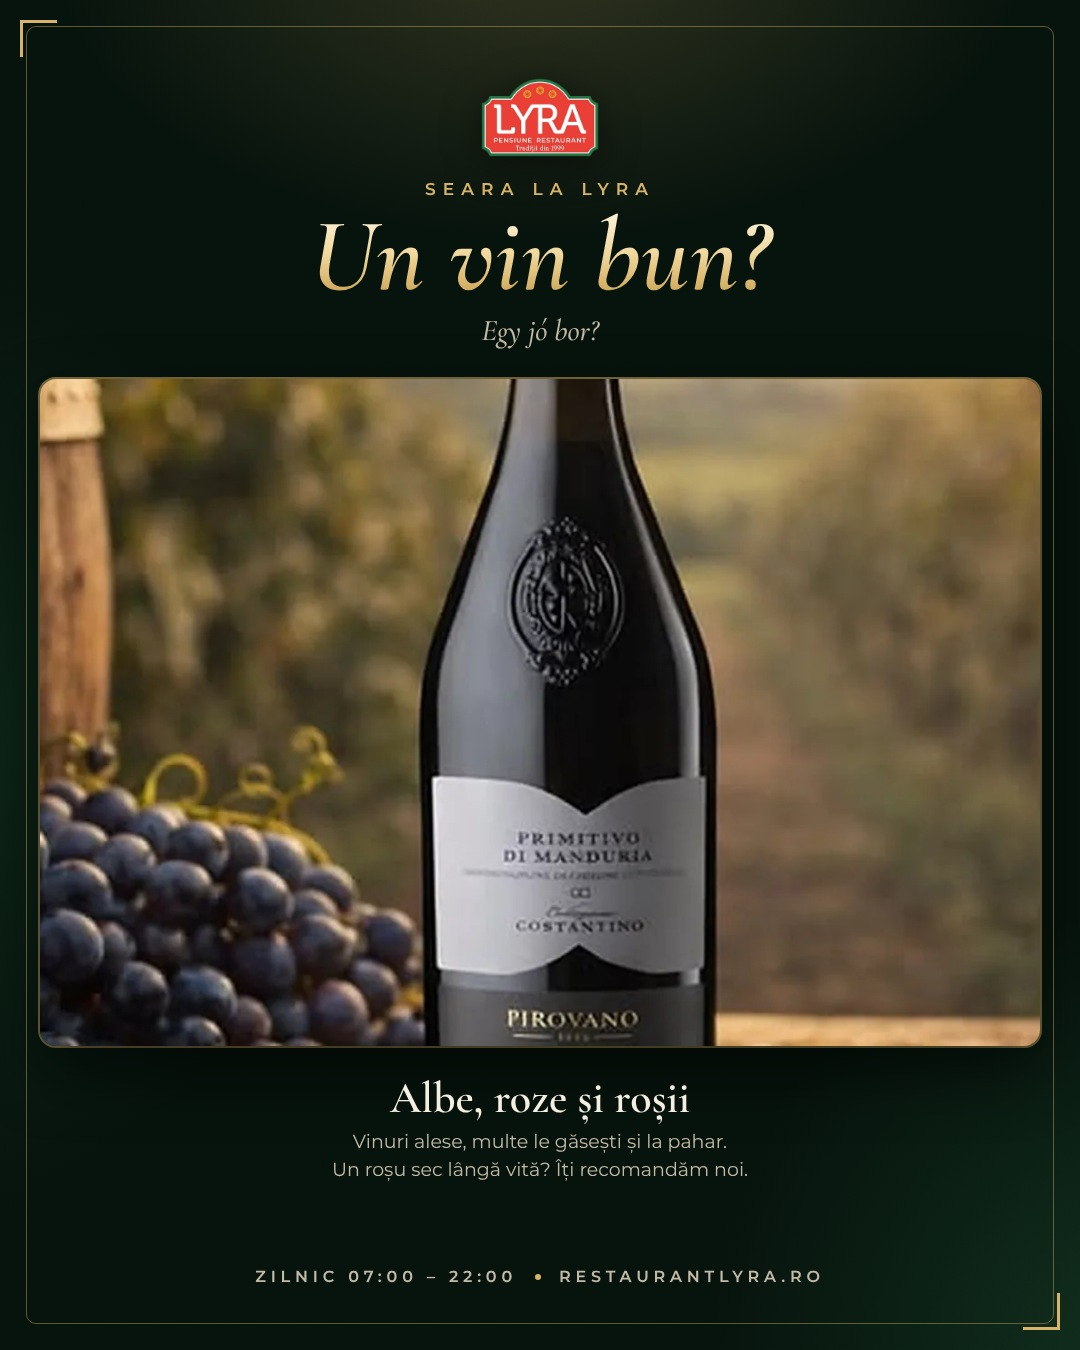
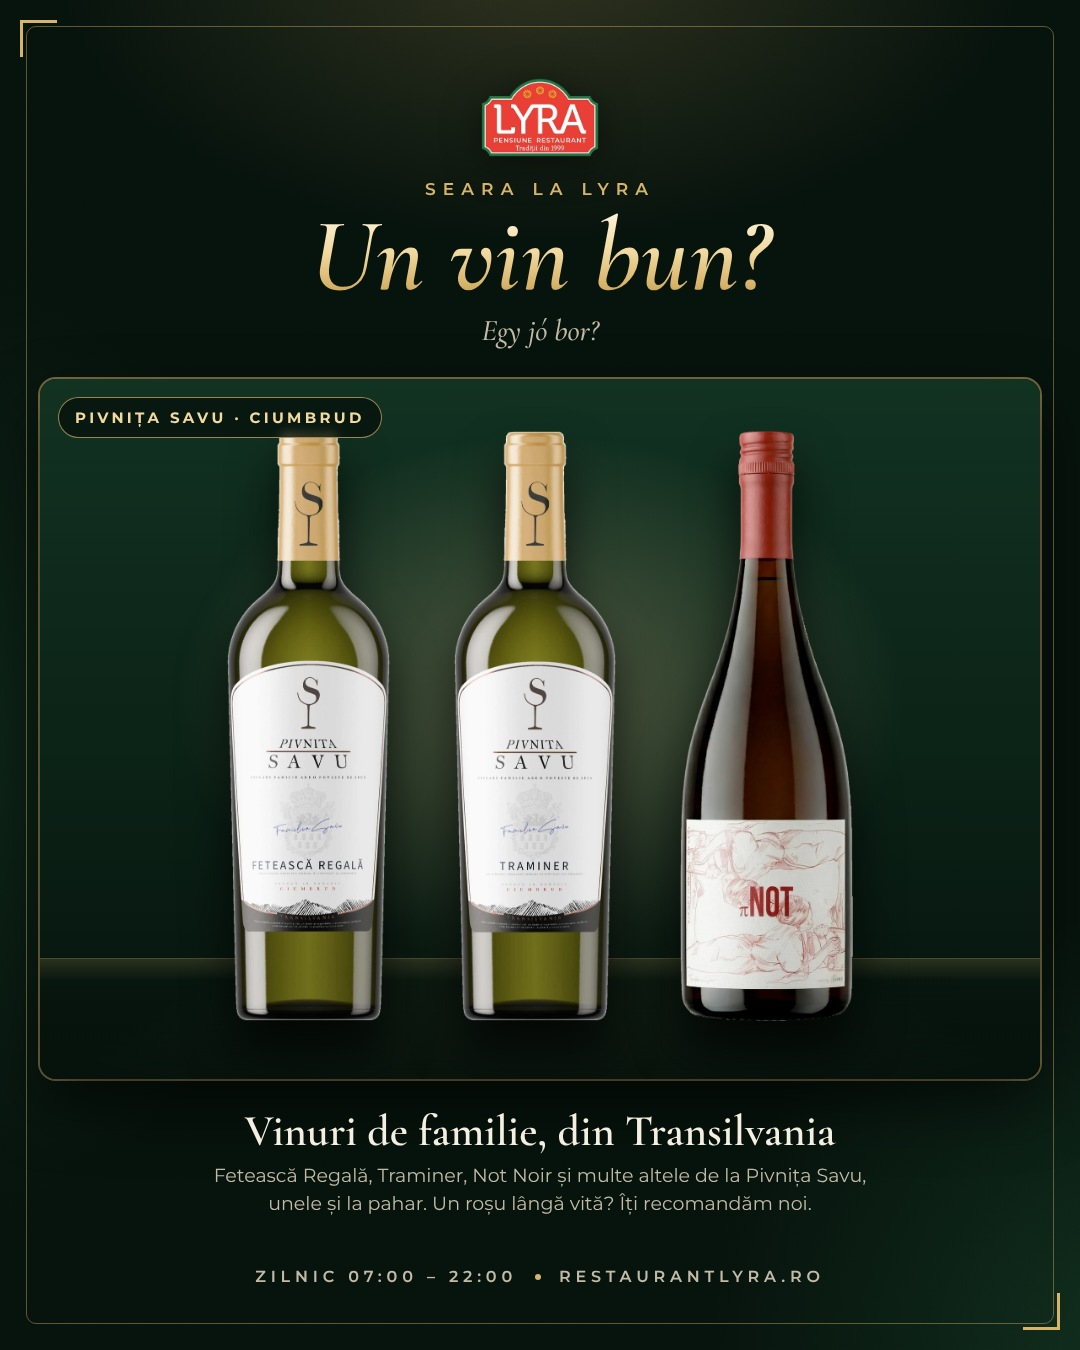
Social post 3: Pivnița Savu bottles
Claude-Session: https://claude.ai/code/session_01YWqoAEnZfgrNzbfTc6BtjY

diff --git a/lyra/social/index.html b/lyra/social/index.html
@@ -80,6 +80,16 @@ h1{font-family:var(--serif);font-style:italic;font-weight:600;font-size:104px;li
 .menu-list b{font-family:var(--serif);font-weight:700;font-size:34px;color:var(--gold2);white-space:nowrap}
 .menu-list b small{font-family:var(--sans);font-size:13px;letter-spacing:.14em;color:var(--gold);margin-left:4px}
 
+/* 3 · wine: vineyard backdrop + whole bottles standing on a dark "table" */
+.wine{height:700px;background:
+  radial-gradient(520px 380px at 50% 46%,rgba(241,217,160,.30),transparent 70%),
+  radial-gradient(900px 500px at 50% 120%,rgba(216,180,106,.18),transparent 60%),
+  linear-gradient(180deg,#123222 0%,#0b2116 58%,#06120c 100%)}
+.wine::before{content:"";position:absolute;left:0;right:0;bottom:0;height:120px;background:linear-gradient(180deg,rgba(216,180,106,.16),rgba(6,18,12,.2) 18%,rgba(6,18,12,.9));border-top:1.5px solid rgba(216,180,106,.35)}
+.bottles{position:absolute;left:0;right:0;bottom:58px;display:flex;justify-content:center;align-items:flex-end;gap:64px;z-index:2}
+.bottles img{height:590px;width:auto;filter:drop-shadow(0 30px 24px rgba(0,0,0,.7))}
+.wine .chip{z-index:3}
+
 /* 4 · versus */
 .vs{display:flex;flex-direction:column;align-items:center;margin-top:26px;position:relative}
 .vs .ph{width:750px}
@@ -159,9 +169,10 @@ h1{font-family:var(--serif);font-style:italic;font-weight:600;font-size:104px;li
   <div class="kicker">Seara la Lyra</div>
   <h1 class="gold">Un vin bun?</h1>
   <div class="hu">Egy jó bor?</div>
-  <div class="ph big"><img src="../img/vin-cover.webp"></div>
+  <div class="ph big wine">    <div class="bottles"><img src="img/savu-fe.webp" alt="Fetească Regală"><img src="img/savu-tr.webp" alt="Traminer"><img src="img/savu-nn.webp" alt="Not Noir"></div>
+    <span class="chip">Pivnița Savu · Ciumbrud</span></div>
   <div class="dish">
-    <div class="t"><b>Albe, roze și roșii</b><span>Vinuri alese, multe le găsești și la pahar.<br>Un roșu sec lângă vită? Îți recomandăm noi.</span></div>
+    <div class="t"><b>Vinuri de familie, din Transilvania</b><span>Fetească Regală, Traminer, Not Noir și multe altele de la Pivnița Savu,<br>unele și la pahar. Un roșu lângă vită? Îți recomandăm noi.</span></div>
   </div>
   <div class="foot">Zilnic 07:00 – 22:00<i></i>restaurantlyra.ro</div>
   <div class="frame"></div>
